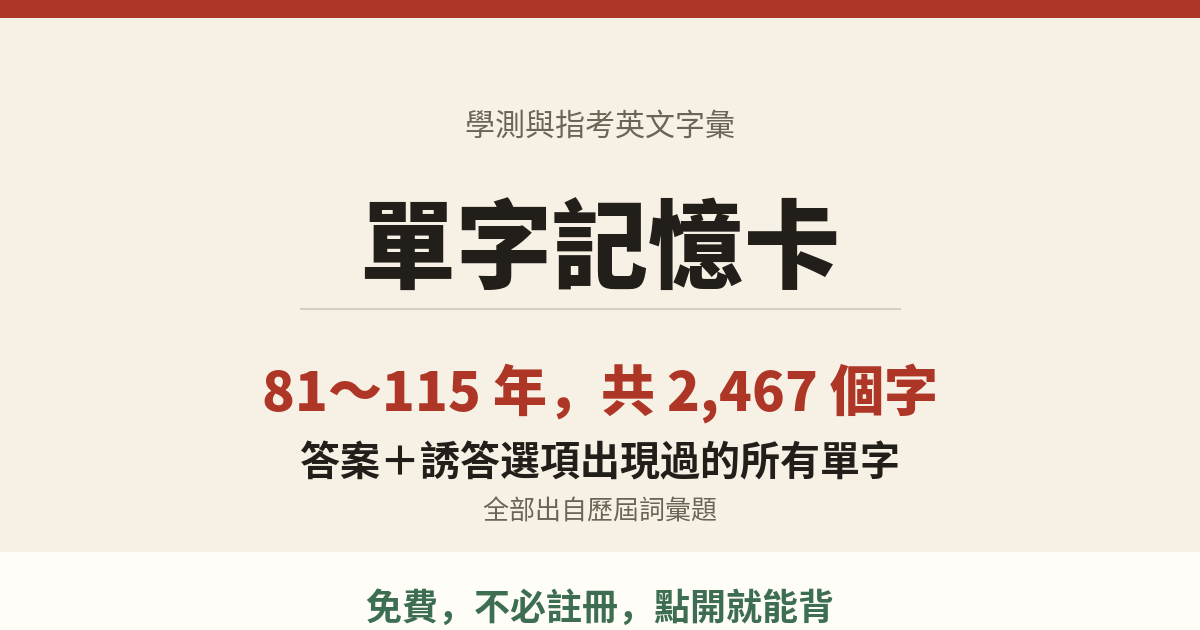
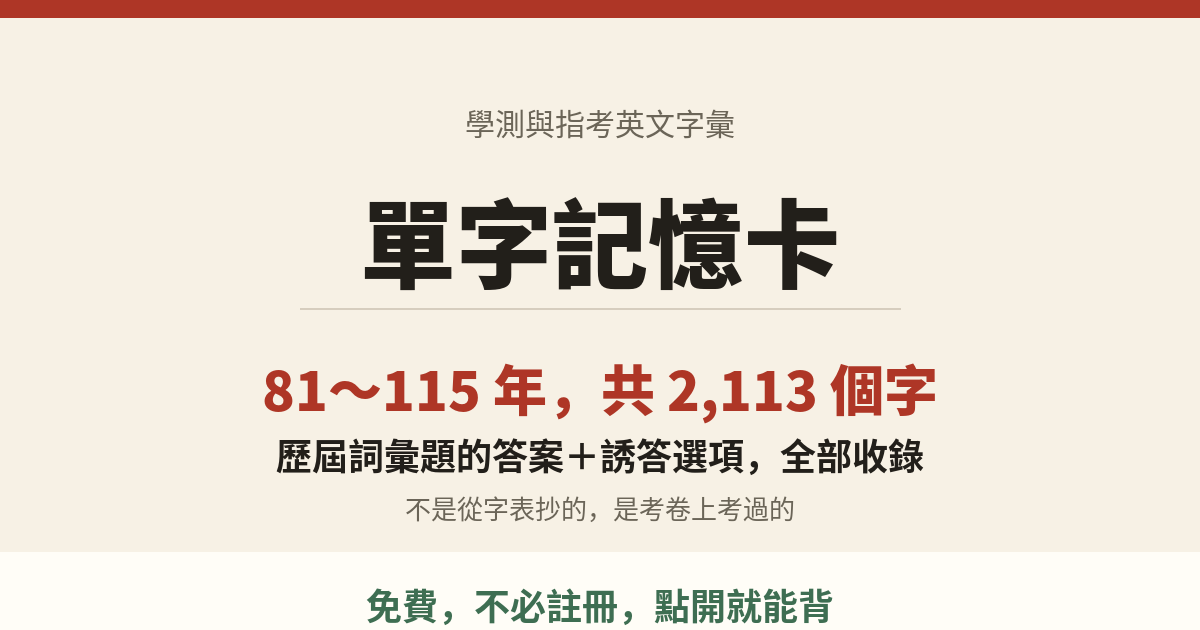
記憶卡封面圖與說明的字數改為 2,113

Changed region(s): [[0.2158, 0.6937, 0.7708, 0.8444], [0.5858, 0.573, 0.6783, 0.6635]]

diff --git a/cards/index.html b/cards/index.html
@@ -9,16 +9,16 @@
 <meta property="og:site_name" content="高中英文自學題庫">
 <meta property="og:locale" content="zh_TW">
 <meta property="og:title" content="單字記憶卡 · 學測指考英文字彙">
-<meta property="og:description" content="81～115 年學測與指考詞彙題考過的字，共 2,467 個，答案＋誘答選項出現過的所有單字全部收錄。四個選項就是當年那一題的四個，答對的往後推，答錯的當場再來。免費、無廣告。">
+<meta property="og:description" content="81～115 年學測與指考詞彙題的答案＋誘答選項，全部收錄，共 2,113 個字。不是從字表抄的，是考卷上真的考過的。四個選項就是當年那一題的四個，答對的往後推，答錯的當場再來。免費、無廣告。">
 <meta property="og:url" content="https://staresto-create.github.io/JCEE-vocab-questions/cards/">
-<meta property="og:image" content="https://staresto-create.github.io/JCEE-vocab-questions/cards/cards-og-cover.png?v=1">
+<meta property="og:image" content="https://staresto-create.github.io/JCEE-vocab-questions/cards/cards-og-cover.png?v=2">
 <meta property="og:image:width" content="1200">
 <meta property="og:image:height" content="630">
-<meta property="og:image:alt" content="單字記憶卡：81～115 年，共 2,467 個字">
+<meta property="og:image:alt" content="單字記憶卡：81～115 年，共 2,113 個字">
 <meta name="twitter:card" content="summary_large_image">
 <meta name="twitter:title" content="單字記憶卡 · 學測指考英文字彙">
-<meta name="twitter:description" content="81～115 年學測與指考詞彙題考過的字，共 2,467 個，答案＋誘答選項出現過的所有單字全部收錄。四個選項就是當年那一題的四個，答對的往後推，答錯的當場再來。免費、無廣告。">
-<meta name="twitter:image" content="https://staresto-create.github.io/JCEE-vocab-questions/cards/cards-og-cover.png?v=1">
+<meta name="twitter:description" content="81～115 年學測與指考詞彙題的答案＋誘答選項，全部收錄，共 2,113 個字。不是從字表抄的，是考卷上真的考過的。四個選項就是當年那一題的四個，答對的往後推，答錯的當場再來。免費、無廣告。">
+<meta name="twitter:image" content="https://staresto-create.github.io/JCEE-vocab-questions/cards/cards-og-cover.png?v=2">
 <link rel="preconnect" href="https://fonts.googleapis.com">
 <link href="https://fonts.googleapis.com/css2?family=Noto+Serif+TC:wght@500;700;900&family=Noto+Sans+TC:wght@400;500;700&family=IBM+Plex+Mono:wght@400;500;600&display=swap" rel="stylesheet">
 <style>
